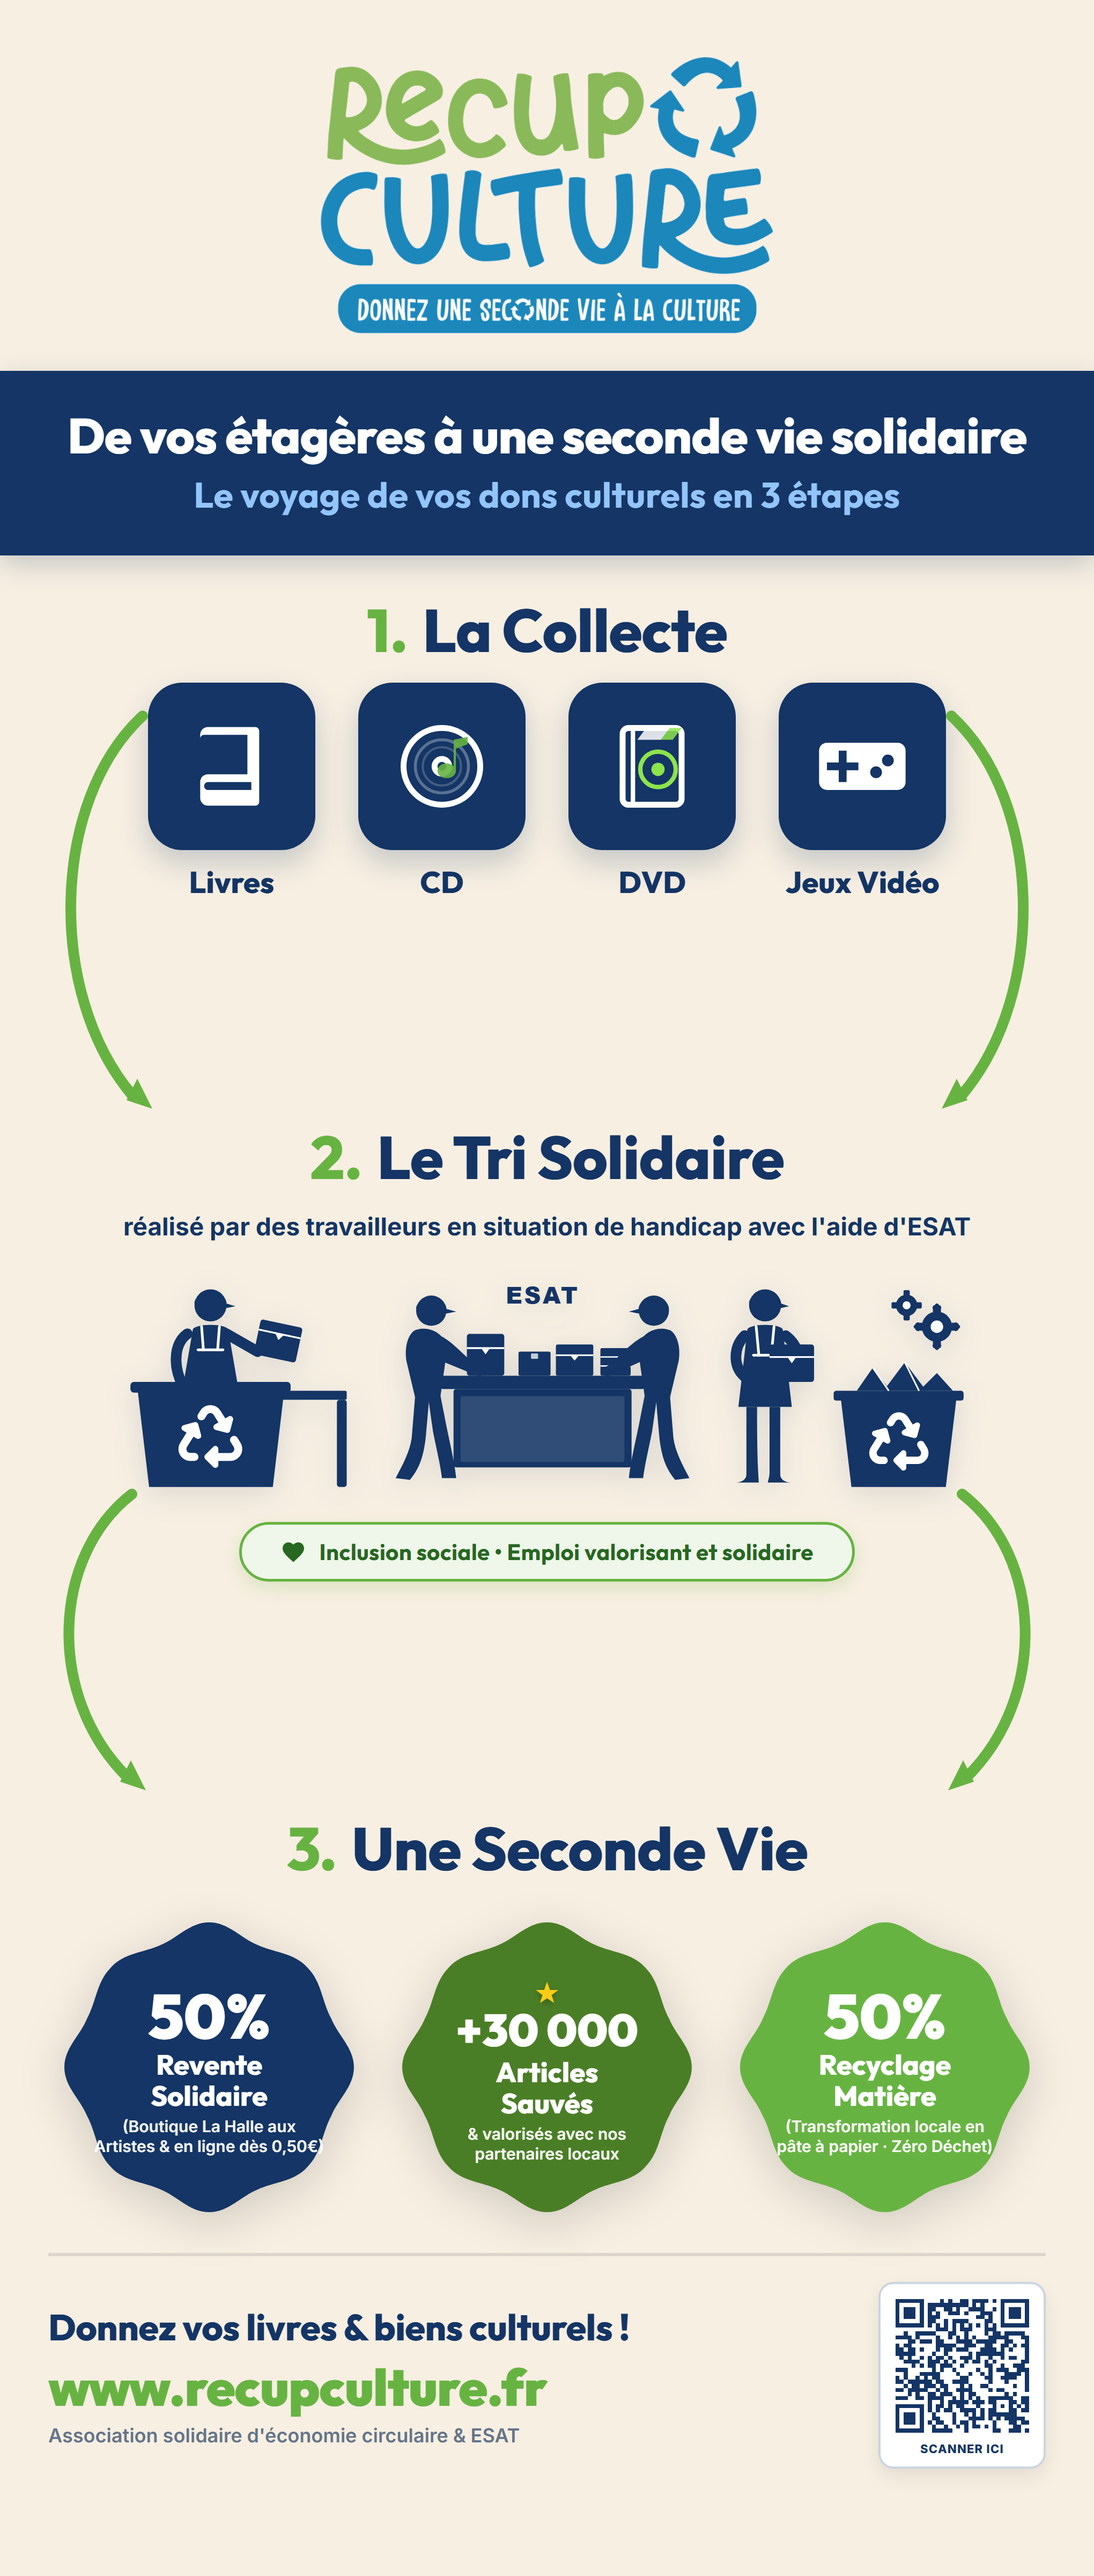
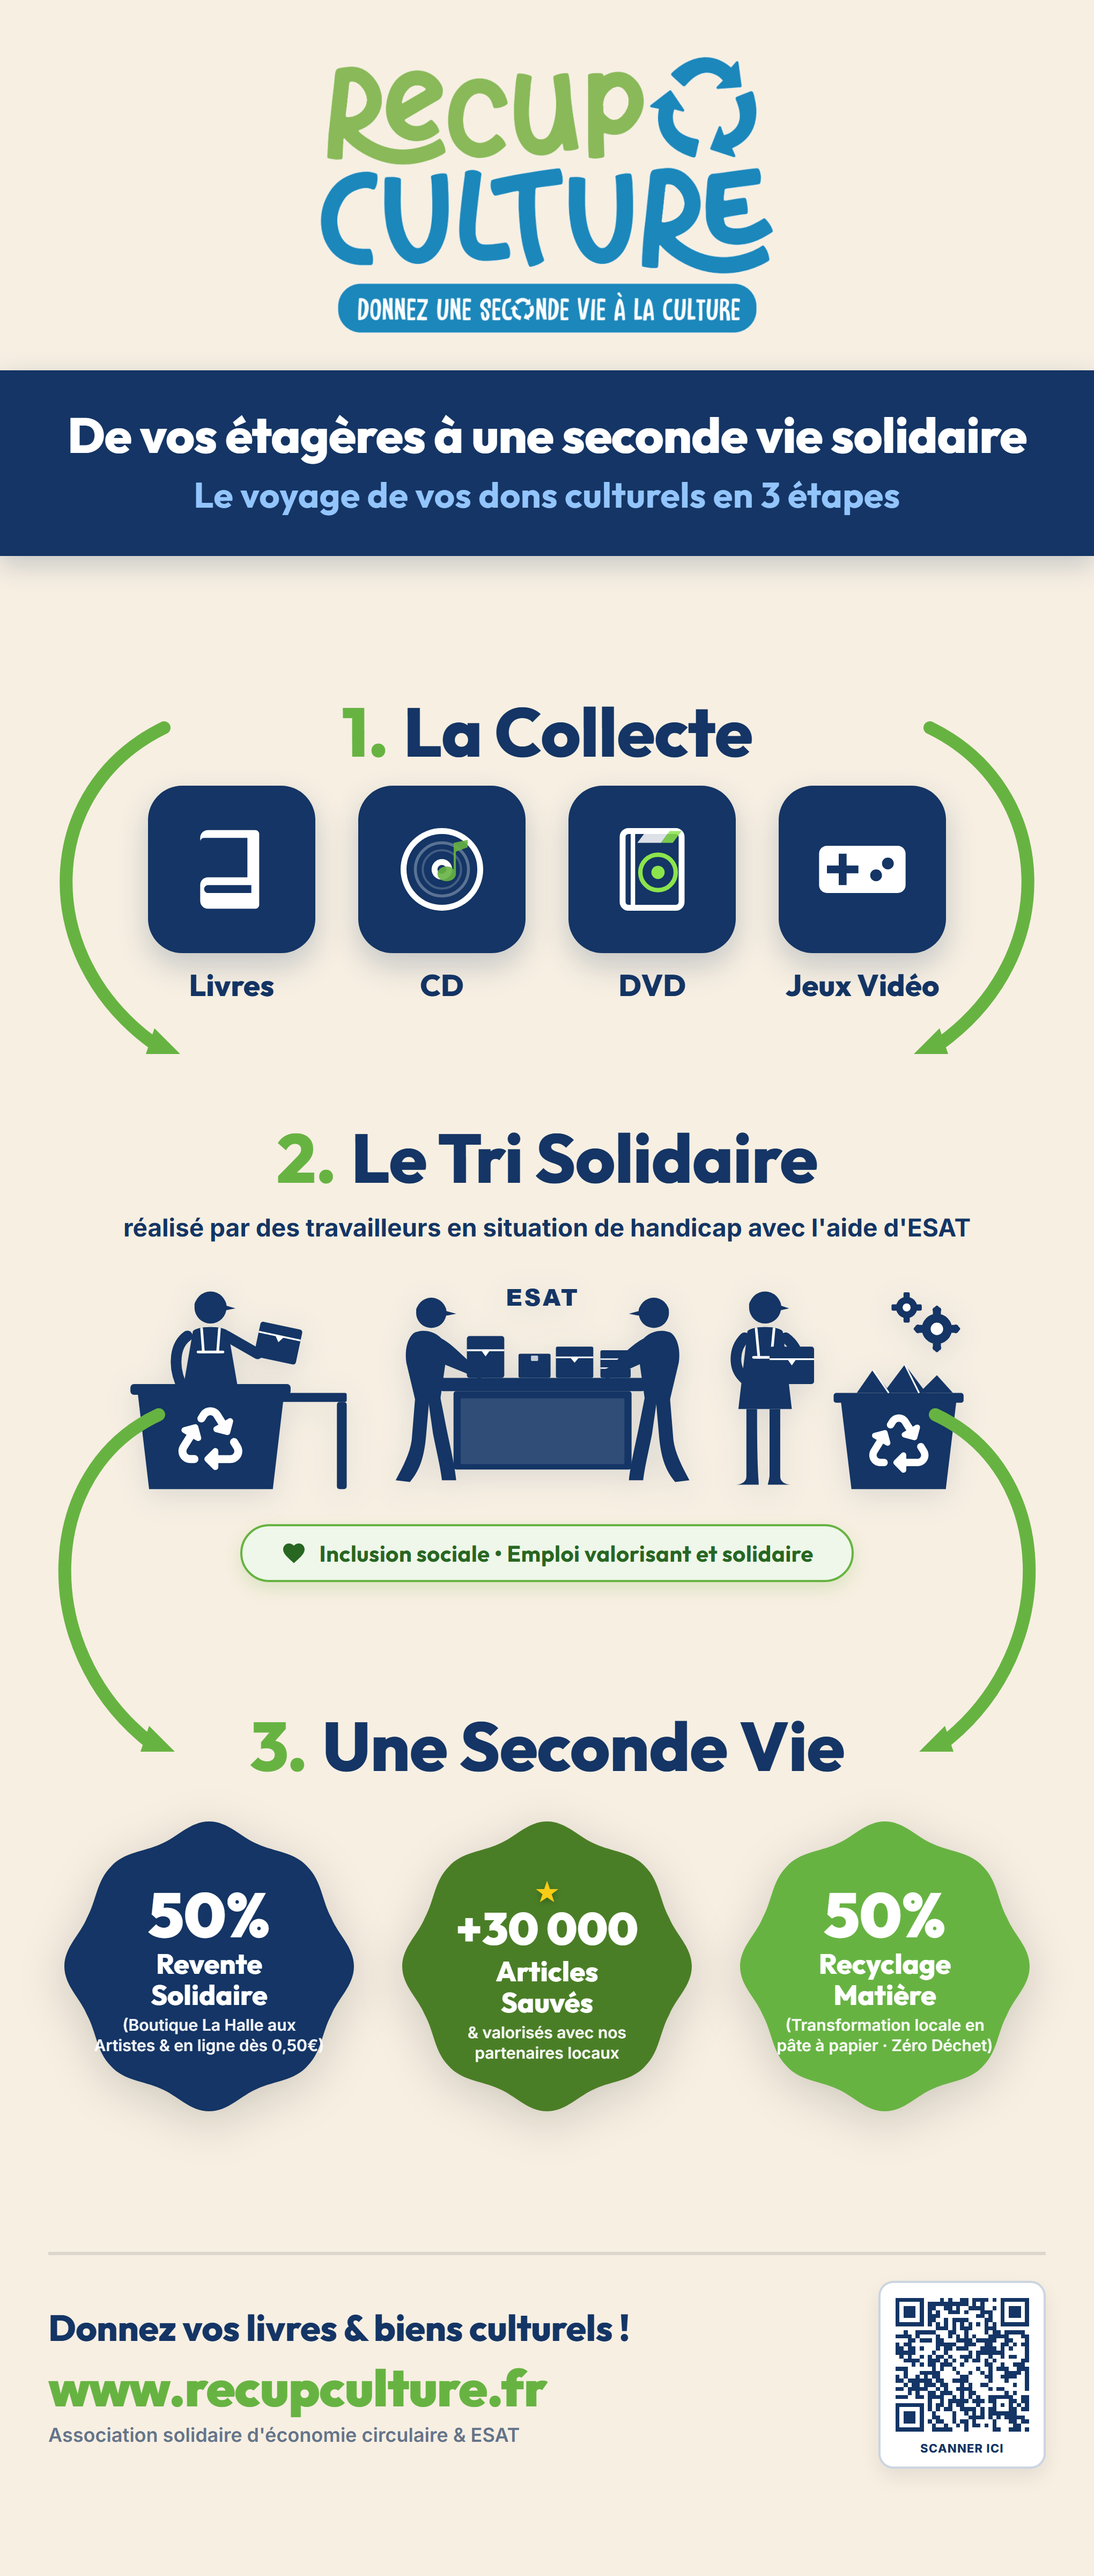
kakemono: fleches englobantes partant du milieu, titres agrandis 64px, espacement reduit

diff --git a/kakemono-1-art.html b/kakemono-1-art.html
@@ -95,8 +95,8 @@
       flex-direction: column;
       z-index: 2;
       flex: 1;
-      justify-content: space-between;
-      padding: 34px 0 20px 0;
+      justify-content: space-evenly;
+      padding: 20px 0 10px 0;
     }
 
     .step-section {
@@ -108,10 +108,10 @@
       position: relative;
     }
 
-    /* Titres des 3 étapes UNIFORMES 56px */
+    /* Titres des 3 étapes UNIFORMES 64px – réduction du vide */
     .step-title {
       font-family: 'Outfit', sans-serif;
-      font-size: 56px;
+      font-size: 64px;
       font-weight: 800;
       color: #143565;
       letter-spacing: -0.5px;
@@ -119,7 +119,7 @@
       align-items: center;
       justify-content: center;
       gap: 14px;
-      margin-bottom: 14px;
+      margin-bottom: 10px;
     }
 
     .step-title .num-badge {
@@ -382,29 +382,29 @@
 </head>
 <body>
 
-  <!-- FLÈCHES CYCLIQUES VECTORIELLES D'ENCHAÎNEMENT ENGLOBANTES (Inspirées exactement de la copie d'écran) -->
-  <!-- Flèche gauche 1 → 2 : part à hauteur du haut de l'icône Livres, s'évase puis plonge vers le titre 2 -->
-  <svg class="flow-arrow-svg" id="arrow-1-left" style="top: 655px; left: 28px; width: 120px; height: 390px;" viewBox="0 0 120 390">
-    <path d="M 105 12 C 20 90, 15 270, 95 365" fill="none" stroke="#67b342" stroke-width="10" stroke-linecap="round" />
-    <polygon points="114,378 90,370 100,350" fill="#67b342" />
+  <!-- FLÈCHES CYCLIQUES VECTORIELLES D'ENCHAÎNEMENT ENGLOBANTES -->
+  <!-- Flèche gauche 1 → 2 : part du milieu des icônes étape 1 -->
+  <svg class="flow-arrow-svg" id="arrow-1-left" style="top: 660px; left: 8px; width: 175px; height: 340px;" viewBox="0 0 175 340">
+    <path d="M 145 18 C 28 75, 22 230, 135 312" fill="none" stroke="#67b342" stroke-width="12" stroke-linecap="round" />
+    <polygon points="160,322 128,322 136,298" fill="#67b342" />
   </svg>
 
-  <!-- Flèche droite 1 → 2 : part à hauteur du haut de l'icône Jeux Vidéo, s'évase puis plonge vers le titre 2 -->
-  <svg class="flow-arrow-svg" id="arrow-1-right" style="top: 655px; right: 28px; width: 120px; height: 390px;" viewBox="0 0 120 390">
-    <path d="M 15 12 C 100 90, 105 270, 25 365" fill="none" stroke="#67b342" stroke-width="10" stroke-linecap="round" />
-    <polygon points="6,378 20,350 30,370" fill="#67b342" />
+  <!-- Flèche droite 1 → 2 : part du milieu des icônes étape 1 -->
+  <svg class="flow-arrow-svg" id="arrow-1-right" style="top: 660px; right: 8px; width: 175px; height: 340px;" viewBox="0 0 175 340">
+    <path d="M 30 18 C 147 75, 153 230, 40 312" fill="none" stroke="#67b342" stroke-width="12" stroke-linecap="round" />
+    <polygon points="15,322 39,298 47,322" fill="#67b342" />
   </svg>
 
-  <!-- Flèche gauche 2 → 3 : part à hauteur du poste de tri gauche, s'évase puis plonge vers le titre 3 -->
-  <svg class="flow-arrow-svg" id="arrow-2-left" style="top: 1380px; left: 28px; width: 120px; height: 300px;" viewBox="0 0 120 300">
-    <path d="M 95 12 C 20 70, 15 200, 90 275" fill="none" stroke="#67b342" stroke-width="10" stroke-linecap="round" />
-    <polygon points="108,288 84,280 94,260" fill="#67b342" />
+  <!-- Flèche gauche 2 → 3 : part du milieu de l'illustration atelier -->
+  <svg class="flow-arrow-svg" id="arrow-2-left" style="top: 1300px; left: 8px; width: 175px; height: 350px;" viewBox="0 0 175 350">
+    <path d="M 140 18 C 28 70, 22 235, 130 322" fill="none" stroke="#67b342" stroke-width="12" stroke-linecap="round" />
+    <polygon points="155,332 123,332 131,308" fill="#67b342" />
   </svg>
 
-  <!-- Flèche droite 2 → 3 : part à hauteur de la caisse droite / engrenages, s'évase puis plonge vers le titre 3 -->
-  <svg class="flow-arrow-svg" id="arrow-2-right" style="top: 1380px; right: 28px; width: 120px; height: 300px;" viewBox="0 0 120 300">
-    <path d="M 25 12 C 100 70, 105 200, 30 275" fill="none" stroke="#67b342" stroke-width="10" stroke-linecap="round" />
-    <polygon points="12,288 26,260 36,280" fill="#67b342" />
+  <!-- Flèche droite 2 → 3 : part du milieu de l'illustration atelier -->
+  <svg class="flow-arrow-svg" id="arrow-2-right" style="top: 1300px; right: 8px; width: 175px; height: 350px;" viewBox="0 0 175 350">
+    <path d="M 35 18 C 147 70, 153 235, 45 322" fill="none" stroke="#67b342" stroke-width="12" stroke-linecap="round" />
+    <polygon points="20,332 44,308 52,332" fill="#67b342" />
   </svg>
 
   <!-- ════════════════════ EN-TÊTE ════════════════════ -->

diff --git a/scratch/render_kakemono.js b/scratch/render_kakemono.js
@@ -1,0 +1,42 @@
+const puppeteer = require('puppeteer');
+const path = require('path');
+
+(async () => {
+  console.log('Starting Puppeteer...');
+  const browser = await puppeteer.launch({
+    headless: 'new',
+    args: ['--no-sandbox', '--disable-setuid-sandbox', '--disable-gpu']
+  });
+  console.log('Browser launched.');
+  const page = await browser.newPage();
+
+  const htmlPath = path.resolve(__dirname, '..', 'kakemono-1-art.html');
+  const fileUrl = 'file:///' + htmlPath.replace(/\\/g, '/');
+  console.log('Loading:', fileUrl);
+
+  // Standard resolution (1020x2400)
+  await page.setViewport({ width: 1020, height: 2400, deviceScaleFactor: 1 });
+  await page.goto(fileUrl, { waitUntil: 'networkidle0', timeout: 30000 });
+  console.log('Page loaded (standard).');
+  await new Promise(r => setTimeout(r, 2000));
+
+  const stdPath = path.resolve(__dirname, '..', 'assets', 'kakemono-1-modele-illustre.png');
+  await page.screenshot({ path: stdPath, fullPage: false, clip: { x: 0, y: 0, width: 1020, height: 2400 } });
+  console.log('Standard saved:', stdPath);
+
+  // HD resolution (2040x4800) for 300 DPI print
+  await page.setViewport({ width: 1020, height: 2400, deviceScaleFactor: 2 });
+  await page.goto(fileUrl, { waitUntil: 'networkidle0', timeout: 30000 });
+  console.log('Page loaded (HD).');
+  await new Promise(r => setTimeout(r, 2000));
+
+  const hdPath = path.resolve(__dirname, '..', 'assets', 'kakemono-1-modele-illustre-HD.png');
+  await page.screenshot({ path: hdPath, fullPage: false, clip: { x: 0, y: 0, width: 1020, height: 2400 } });
+  console.log('HD saved:', hdPath);
+
+  await browser.close();
+  console.log('Done!');
+})().catch(err => {
+  console.error('Error:', err.message);
+  process.exit(1);
+});
